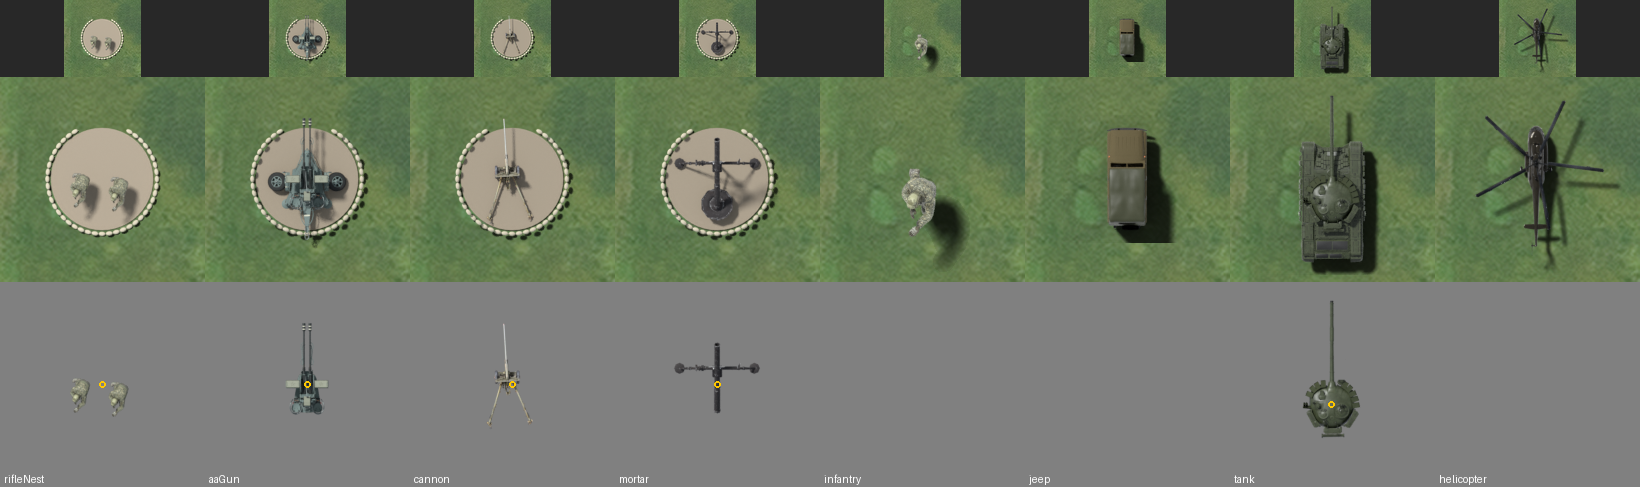
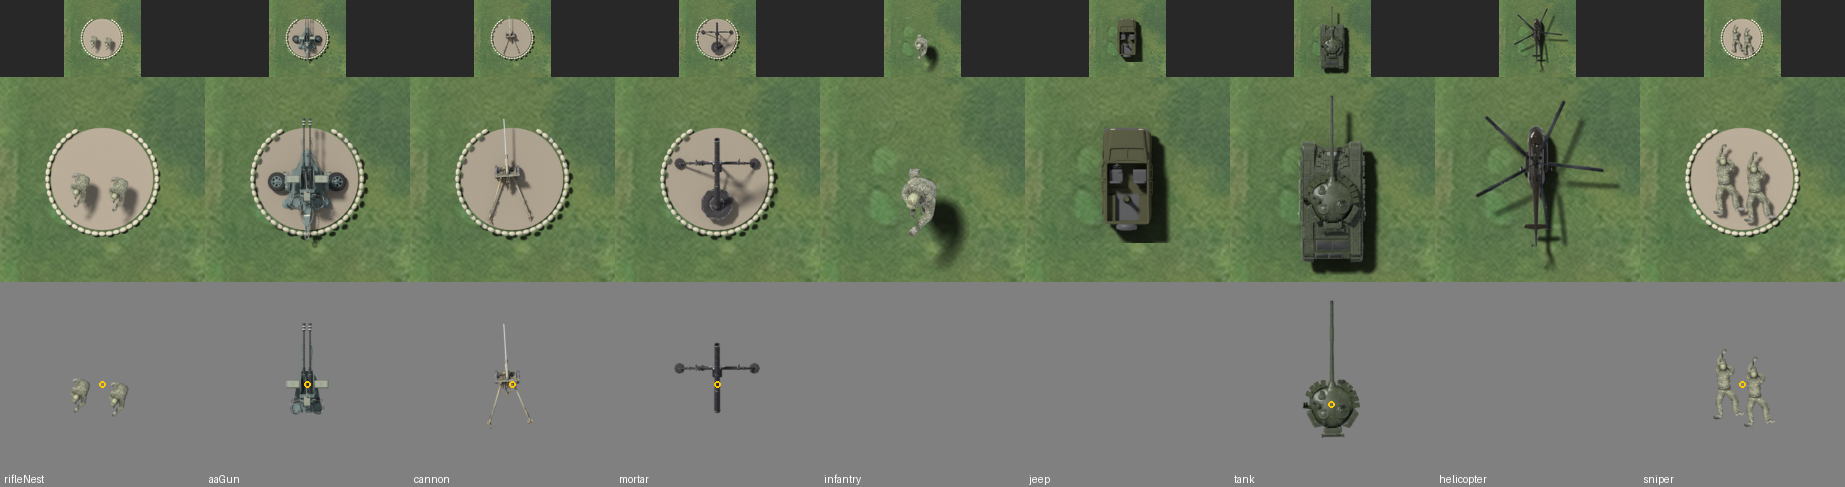
feat: Sniper team renders for Russia and China (#460)
Claude-Session: https://claude.ai/code/session_013cBup2kfHCFpg3BwatyFhk

diff --git a/tests/render-pivot.test.ts b/tests/render-pivot.test.ts
@@ -120,8 +120,8 @@ describe('the complete Faction sets (ADR-0009, point 5)', () => {
 describe('the Sniper renders (art-ahead, #358)', () => {
   const snipers = RENDER_CONFIG.models.filter((m) => m.kind === 'sniper');
 
-  it('covers the Factions done so far: US (#459)', () => {
-    expect(snipers.map((m) => m.faction)).toEqual(expect.arrayContaining(['us']));
+  it('covers the Factions done so far: US (#459), Russia and China (#460)', () => {
+    expect(snipers.map((m) => m.faction)).toEqual(expect.arrayContaining(['us', 'russia', 'china']));
   });
 
   for (const model of snipers) {

diff --git a/src/data/renders.test.ts b/src/data/renders.test.ts
@@ -53,8 +53,8 @@ describe('RENDERS', () => {
 });
 
 describe('the committed Sniper renders (art-ahead: not in RENDERS until #364 puts the Sniper in play)', () => {
-  // The Factions whose Sniper is rendered so far: US (#459). Later parts of #358 add theirs.
-  for (const faction of ['us']) {
+  // The Factions whose Sniper is rendered so far: US (#459), Russia and China (#460). Later parts of #358 add theirs.
+  for (const faction of ['us', 'russia', 'china']) {
     const id = `${faction}-sniper`;
     const dir = `assets/render-${id}`;
 

diff --git a/docs/assets.md b/docs/assets.md
@@ -206,6 +206,7 @@ Three packs hold the art-style spike: top-down renders of two CC-BY Sketchfab mo
 | `render-us-cannon/` | "Anti-Tank Guided Missile" by Alhimix, CC-BY-4.0 | `scripts/render-sprite.py` |
 | `render-us-mortar/` | "Mortar - M224" by jcherry3d, CC-BY-4.0 | `scripts/render-sprite.py` |
 | `render-us-infantry/` | "Tactical Soldier (game ready) low poly" by MissingTray1151, CC-BY-4.0 | `scripts/render-sprite.py` |
+| `render-us-sniper/` | "Tactical Soldier (game ready) low poly" by MissingTray1151, CC-BY-4.0 | `scripts/render-sprite.py` |
 | `render-us-jeep/` | "Low Poly Humvee FREE" by madtrollstudio, CC-BY-4.0 | `scripts/render-sprite.py` |
 | `render-us-tank/` | "M1A2 Abrams Crows" by MirzaArrafiERV_45, CC-BY-4.0 | `scripts/render-sprite.py` |
 | `render-us-helicopter/` | "Sikorsky UH-60 Black Hawk" by helijah, CC-BY-4.0 | `scripts/render-sprite.py` |
@@ -214,9 +215,11 @@ Three packs hold the art-style spike: top-down renders of two CC-BY Sketchfab mo
 | `render-russia-cannon/` | "ZiS-2 57mm anti-tank gun" by sergey.s.filin, CC-BY-4.0 | `scripts/render-sprite.py` |
 | `render-russia-mortar/` | "Pindad Mortars" by sakigakefuruzawa, CC-BY-4.0 | `scripts/render-sprite.py` |
 | `render-russia-infantry/` | "Tactical Soldier (game ready) low poly" by MissingTray1151, CC-BY-4.0 | `scripts/render-sprite.py` |
+| `render-russia-sniper/` | "Tactical Soldier (game ready) low poly" by MissingTray1151, CC-BY-4.0 | `scripts/render-sprite.py` |
 | `render-russia-jeep/` | "UAZ-469 Low Poly" by lebedeventerprise, CC-BY-4.0 | `scripts/render-sprite.py` |
 | `render-russia-helicopter/` | "Mi-8" by tiunov.se, CC-BY-4.0 | `scripts/render-sprite.py` |
 | `render-china-rifle-nest/` | "Tactical Soldier (game ready) low poly" by MissingTray1151, CC-BY-4.0 | `scripts/render-sprite.py` |
+| `render-china-sniper/` | "Tactical Soldier (game ready) low poly" by MissingTray1151, CC-BY-4.0 | `scripts/render-sprite.py` |
 | `render-china-cannon/` | "Anti-Tank Guided Missile" by Alhimix, CC-BY-4.0 | `scripts/render-sprite.py` |
 | `render-china-mortar/` | "Pindad Mortars" by sakigakefuruzawa, CC-BY-4.0 | `scripts/render-sprite.py` |
 | `render-china-infantry/` | "Tactical Soldier (game ready) low poly" by MissingTray1151, CC-BY-4.0 | `scripts/render-sprite.py` |

diff --git a/CREDITS.md b/CREDITS.md
@@ -90,7 +90,7 @@ Third-party assets in this game. Generated from `assets/manifest.json` by `npm r
 - License: CC-BY-4.0
 - Attribution: "Tactical Soldier (game ready) low poly" by MissingTray1151 (sketchfab.com), CC-BY 4.0, rendered top-down, posed from its crouch_firing (Rifle Nest: two copies in a sandbagged pit of our own), prone_firing (Sniper: a shooter and an observer in a dug-in pit of our own) and walking_firing (Infantry) animations; US kit tinted toward OCP, Russia kit tinted olive (toward EMR)
 - Downloaded: 2026-11-02
-- Files: `assets/render-us-rifle-nest/**`, `assets/render-us-infantry/**`, `assets/render-us-sniper/**`, `assets/render-russia-rifle-nest/**`, `assets/render-russia-infantry/**`
+- Files: `assets/render-us-rifle-nest/**`, `assets/render-us-infantry/**`, `assets/render-us-sniper/**`, `assets/render-russia-rifle-nest/**`, `assets/render-russia-infantry/**`, `assets/render-russia-sniper/**`
 
 ## Phalanx CIWS (top-down render)
 
@@ -199,6 +199,15 @@ Third-party assets in this game. Generated from `assets/manifest.json` by `npm r
 - Attribution: "Tactical Soldier (game ready) low poly" by MissingTray1151 (sketchfab.com), CC-BY 4.0, rendered top-down, posed crouching and aiming (its crouch_firing animation), kit tinted green (toward Type 07), two copies set in a sandbagged pit of our own
 - Downloaded: 2026-11-02
 - Files: `assets/render-china-rifle-nest/**`
+
+## Tactical Soldier (game ready) low poly (top-down render)
+
+- Author: MissingTray1151
+- Source: <https://sketchfab.com/3d-models/2bfce585144d4403a3ddf76a0e65767a>
+- License: CC-BY-4.0
+- Attribution: "Tactical Soldier (game ready) low poly" by MissingTray1151 (sketchfab.com), CC-BY 4.0, rendered top-down, posed prone and aiming (its prone_firing animation), kit tinted green (toward Type 07), a shooter and an observer set in a dug-in pit of our own
+- Downloaded: 2026-11-11
+- Files: `assets/render-china-sniper/**`
 
 ## Anti-Tank Guided Missile (top-down render)
 

diff --git a/docs/adr/0009-satellite-milsim-art-and-factions.md b/docs/adr/0009-satellite-milsim-art-and-factions.md
@@ -36,9 +36,9 @@ The maintainer also wants each map to pit two sides against each other, picked f
 | **Jeep** (unarmored, fast) | M1097 soft-top Humvee | UAZ-469 | BJ2022 Brave Warrior | Toyota Hilux technical with a DShK |
 | **Tank** | M1A2 SEPv3 Abrams | T-72B3 | Type 99A | T-55 (captured) |
 | **Helicopter** (light armor) | UH-60 Black Hawk | Mi-8AMTSh | Z-20 | Mi-8 (captured) |
-| **Sniper** (rendered ahead of play, #358) | Two-man team prone in a dug-in hide, M107 / M2010, OCP | to come | to come | to come |
+| **Sniper** (rendered ahead of play, #358) | Two-man team prone in a dug-in hide, M107 / M2010, OCP | Two-man team prone in a dug-in hide, ORSIS T-5000 / ASVK, EMR | Two-man team prone in a dug-in hide, QBU-10, Type 07 | to come |
 
-Updated 2026-11-11 (#459): the Sniper row. Its renders come one Faction per part, before the Sniper is in play (#364); the US render is a stand-in rifle and kit on the same soldier model as the Rifle Nest.
+Updated 2026-11-11 (#459): the Sniper row. Its renders come one Faction per part, before the Sniper is in play (#364); the US render is a stand-in rifle and kit on the same soldier model as the Rifle Nest. Updated 2026-11-11 (#460): Russia and China, the same model and pose re-coloured like their Rifle Nests.
 
 Picks match the stats: the Jeep has no armor (so no armored Humvee or Tigr), the Helicopter has light armor (a transport, not an Apache or Hind), and the AA Gun is a fast-firing gun that also hits ground targets.
 
